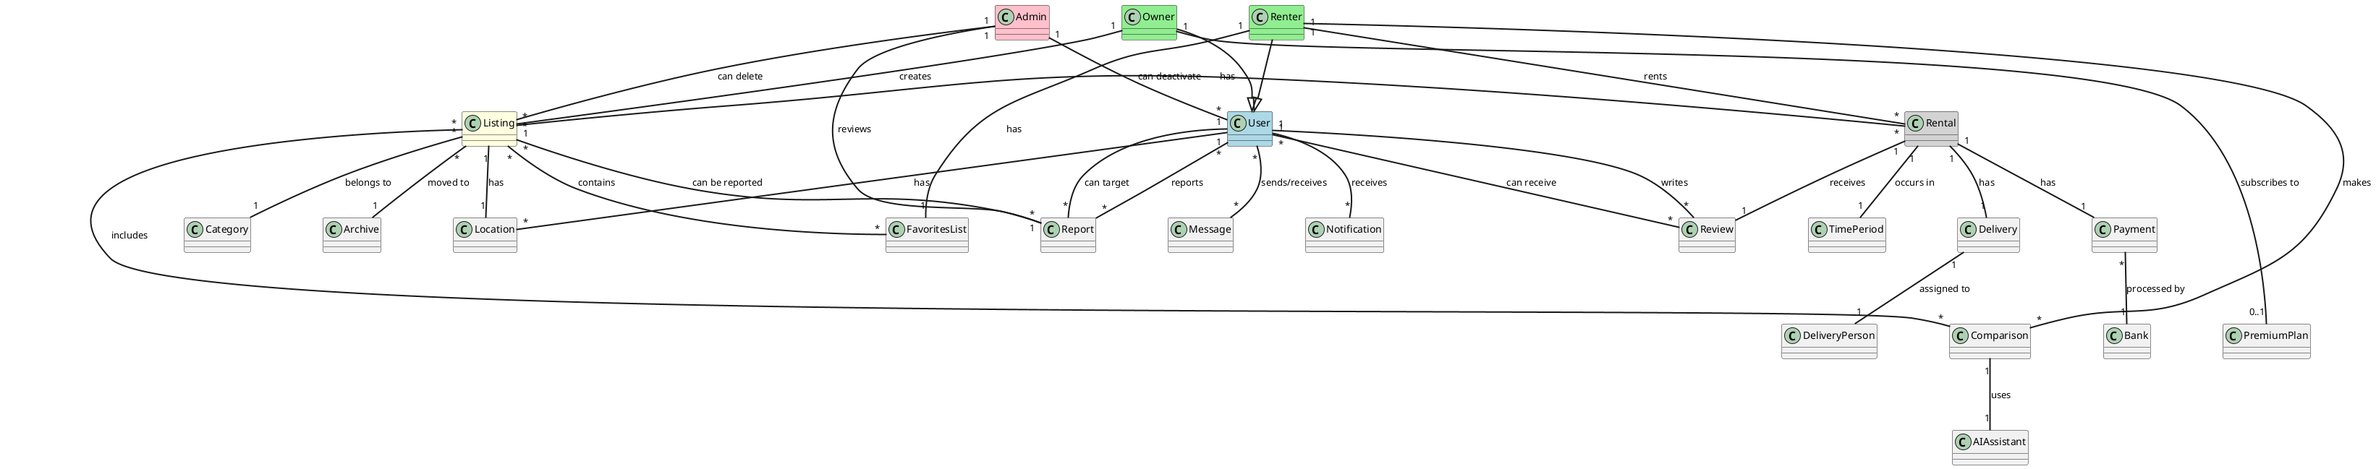
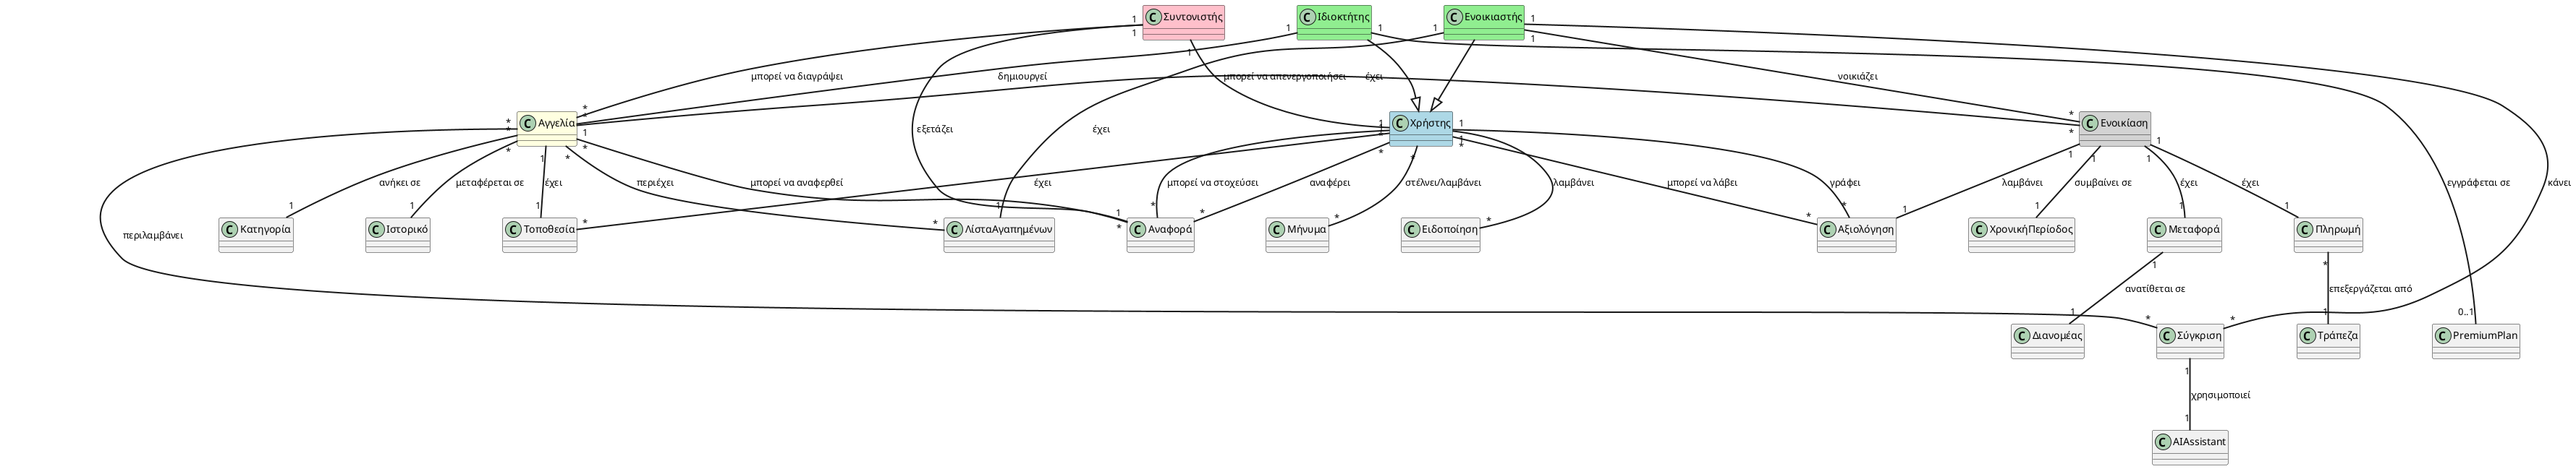
diagram translation and description

diff --git a/diagram_desc.md b/diagram_desc.md
@@ -1,0 +1,65 @@
+1. Χρήστης
+Βασική κλάση που αντιπροσωπεύει όλους τους χρήστες της εφαρμογής. Περιλαμβάνει τα βασικά στοιχεία και λειτουργίες που είναι κοινές για όλους τους χρήστες.
+
+2. Ιδιοκτήτης
+Τύπος χρήστη που μπορεί να καταχωρεί εργαλεία προς ενοικίαση και να διαχειρίζεται τις αγγελίες του.
+
+3. Ενοικιαστής
+Τύπος χρήστη που μπορεί να αναζητά και να ενοικιάζει εργαλεία, να δημιουργεί λίστα αγαπημένων και να κάνει αξιολογήσεις.
+
+4. Συντονιστής
+Διαχειριστής της εφαρμογής που ελέγχει τις αναφορές και μπορεί να διαγράψει αγγελίες ή να απενεργοποιήσει λογαριασμούς.
+
+5. Αγγελία
+Καταχώρηση ενός εργαλείου προς ενοικίαση με πλήρη περιγραφή, τιμή και διαθεσιμότητα.
+
+6. Κατηγορία
+Κατηγοριοποιηση των εργαλείων σε ομάδες.
+
+7. Τοποθεσία
+Γεωγραφική θέση του εργαλείου και του χρήστη για την διευκόλυνση της παράδοσης.
+
+8. Ιστορικό
+Αποθηκεύει τις αγγελίες που έχουν απομακρυνθεί λόγω έλλειψης ενδιαφέροντος.
+
+9. Ενοικίαση
+Διαχειρίζεται τη διαδικασία ενοικίασης ενός εργαλείου.
+
+10. ΧρονικήΠερίοδος
+Καθορίζει το διάστημα της ενοικίασης.
+
+11. Πληρωμή
+Διαχειρίζεται τις οικονομικές συναλλαγές της ενοικίασης.
+
+12. Μεταφορά
+Διαχειρίζεται την παράδοση και παραλαβή των εργαλείων.
+
+13. Αξιολόγηση
+Επιτρέπει στους ενοικιαστές να αξιολογούν τα εργαλεία που έχουν νοικιάσει.
+
+14. Αναφορά
+Επιτρέπει στους χρήστες να αναφέρουν προβληματικές αγγελίες ή λογαριασμούς.
+
+15. Μήνυμα
+Επιτρέπει την επικοινωνία μεταξύ των χρηστών.
+
+16. Ειδοποίηση
+Ενημερώνει τους χρήστες για σημαντικά γεγονότα στην εφαρμογή.
+
+17. ΛίσταΑγαπημένων
+Αποθηκεύει τις αγγελίες που ενδιαφέρουν τον ενοικιαστή.
+
+18. Σύγκριση
+Επιτρέπει τη σύγκριση διαφορετικών εργαλείων.
+
+19. AIAssistant
+Βοηθά στη σύγκριση των εργαλείων και στις προτάσεις εναλλακτικών.
+
+20. PremiumPlan
+Διαχειρίζεται τα επιπλέον προνόμια των αναβαθμισμένων λογαριασμών.
+
+21. Διανομέας
+Αναλαμβάνει την μεταφορά των εργαλείων.
+
+22. Τράπεζα
+Διαχειρίζεται τις τραπεζικές συναλλαγές της εφαρμογής (API).
